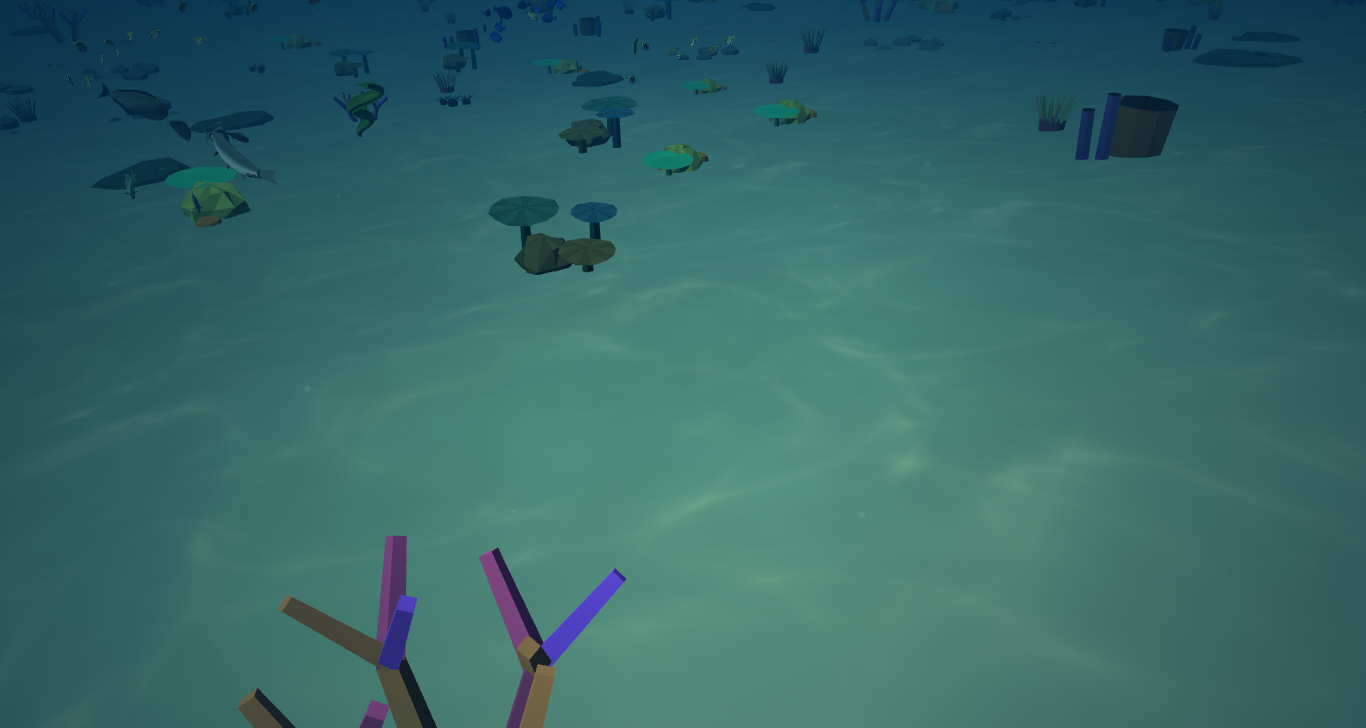
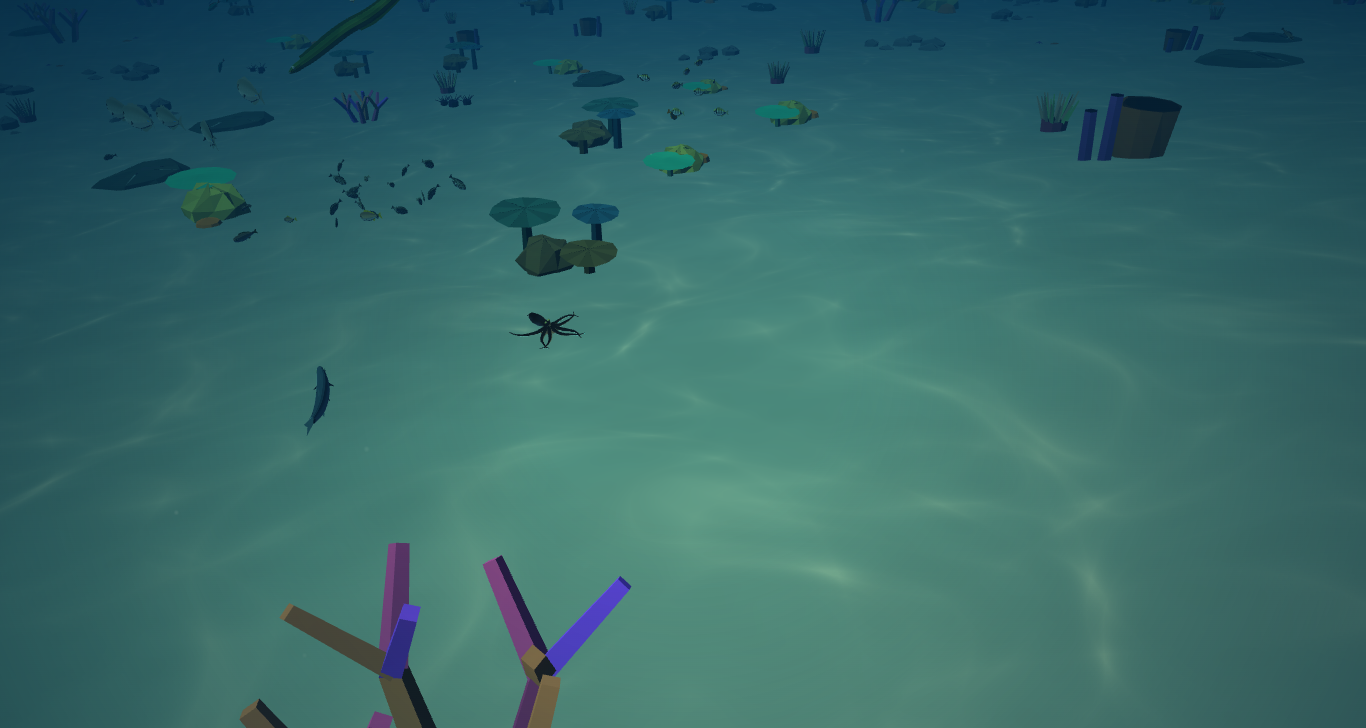
Coral reef screenshot: a common octopus on the reef in front of you

diff --git a/electron/shots.js b/electron/shots.js
@@ -34,7 +34,10 @@ const SHOTS = [
         const c = coverAt(x, y, 6, false).coral; if (c > 0.9) { best = { x, y, a: p.a, c, w }; break; } if (!best || c > best.c) best = { x, y, a: p.a, c, w }; } if (best && best.c > 0.9) break; }   // (dense enough: stop looking)
     window.shot.best = { c: best.c, d: best.w.depth, x: best.x, y: best.y }; Engine.travel(best.x - Math.cos(best.a) * 60, best.y - Math.sin(best.a) * 60); await shot.wait(1000);   // ashore nearby, so the land around streams in
     const bx = best.x - Math.cos(best.a) * 4, by = best.y - Math.sin(best.a) * 4; Engine.P.x = bx; Engine.P.y = by; const w = Game.waterAt(bx, by);   // a few metres back from it, looking out over it
-    shot.hold({ tod: 0.5, z: Math.max(w.ground + 1.5, w.level - 1) - EYE, a: best.a + 0.5, pitch: -0.55 }); await shot.wait(6000);` },
+    shot.hold({ tod: 0.5, z: Math.max(w.ground + 1.5, w.level - 1) - EYE, a: best.a + 0.5, pitch: -0.55 }); await shot.wait(4000);
+    const [oc] = Game.spawn('common_octopus') || [], ox = bx + Math.cos(best.a + 0.5) * 3.2, oy = by + Math.sin(best.a + 0.5) * 3.2, og = Game.waterAt(ox, oy).ground;   // an octopus on the coral in front of you
+    if (oc) Game.on('update', () => Object.assign(oc, { x: ox, y: oy, z: og + 0.25, a: best.a + 2.4 }));
+    await shot.wait(2000);` },
   { name: '4-whale-deep-ocean', seed: 42, climate: 'tropical', run: `
     const p = Game.findWater('sea', 0, 0, 6000); Engine.travel(p.x, p.y); await shot.wait(1500);
     let d = 120; for (; d < 1500; d += 40) { const q = shot.out(p.a, d), w = Game.waterAt(q[0], q[1]); if (w.depth > 60) break; }   // out over deep water
